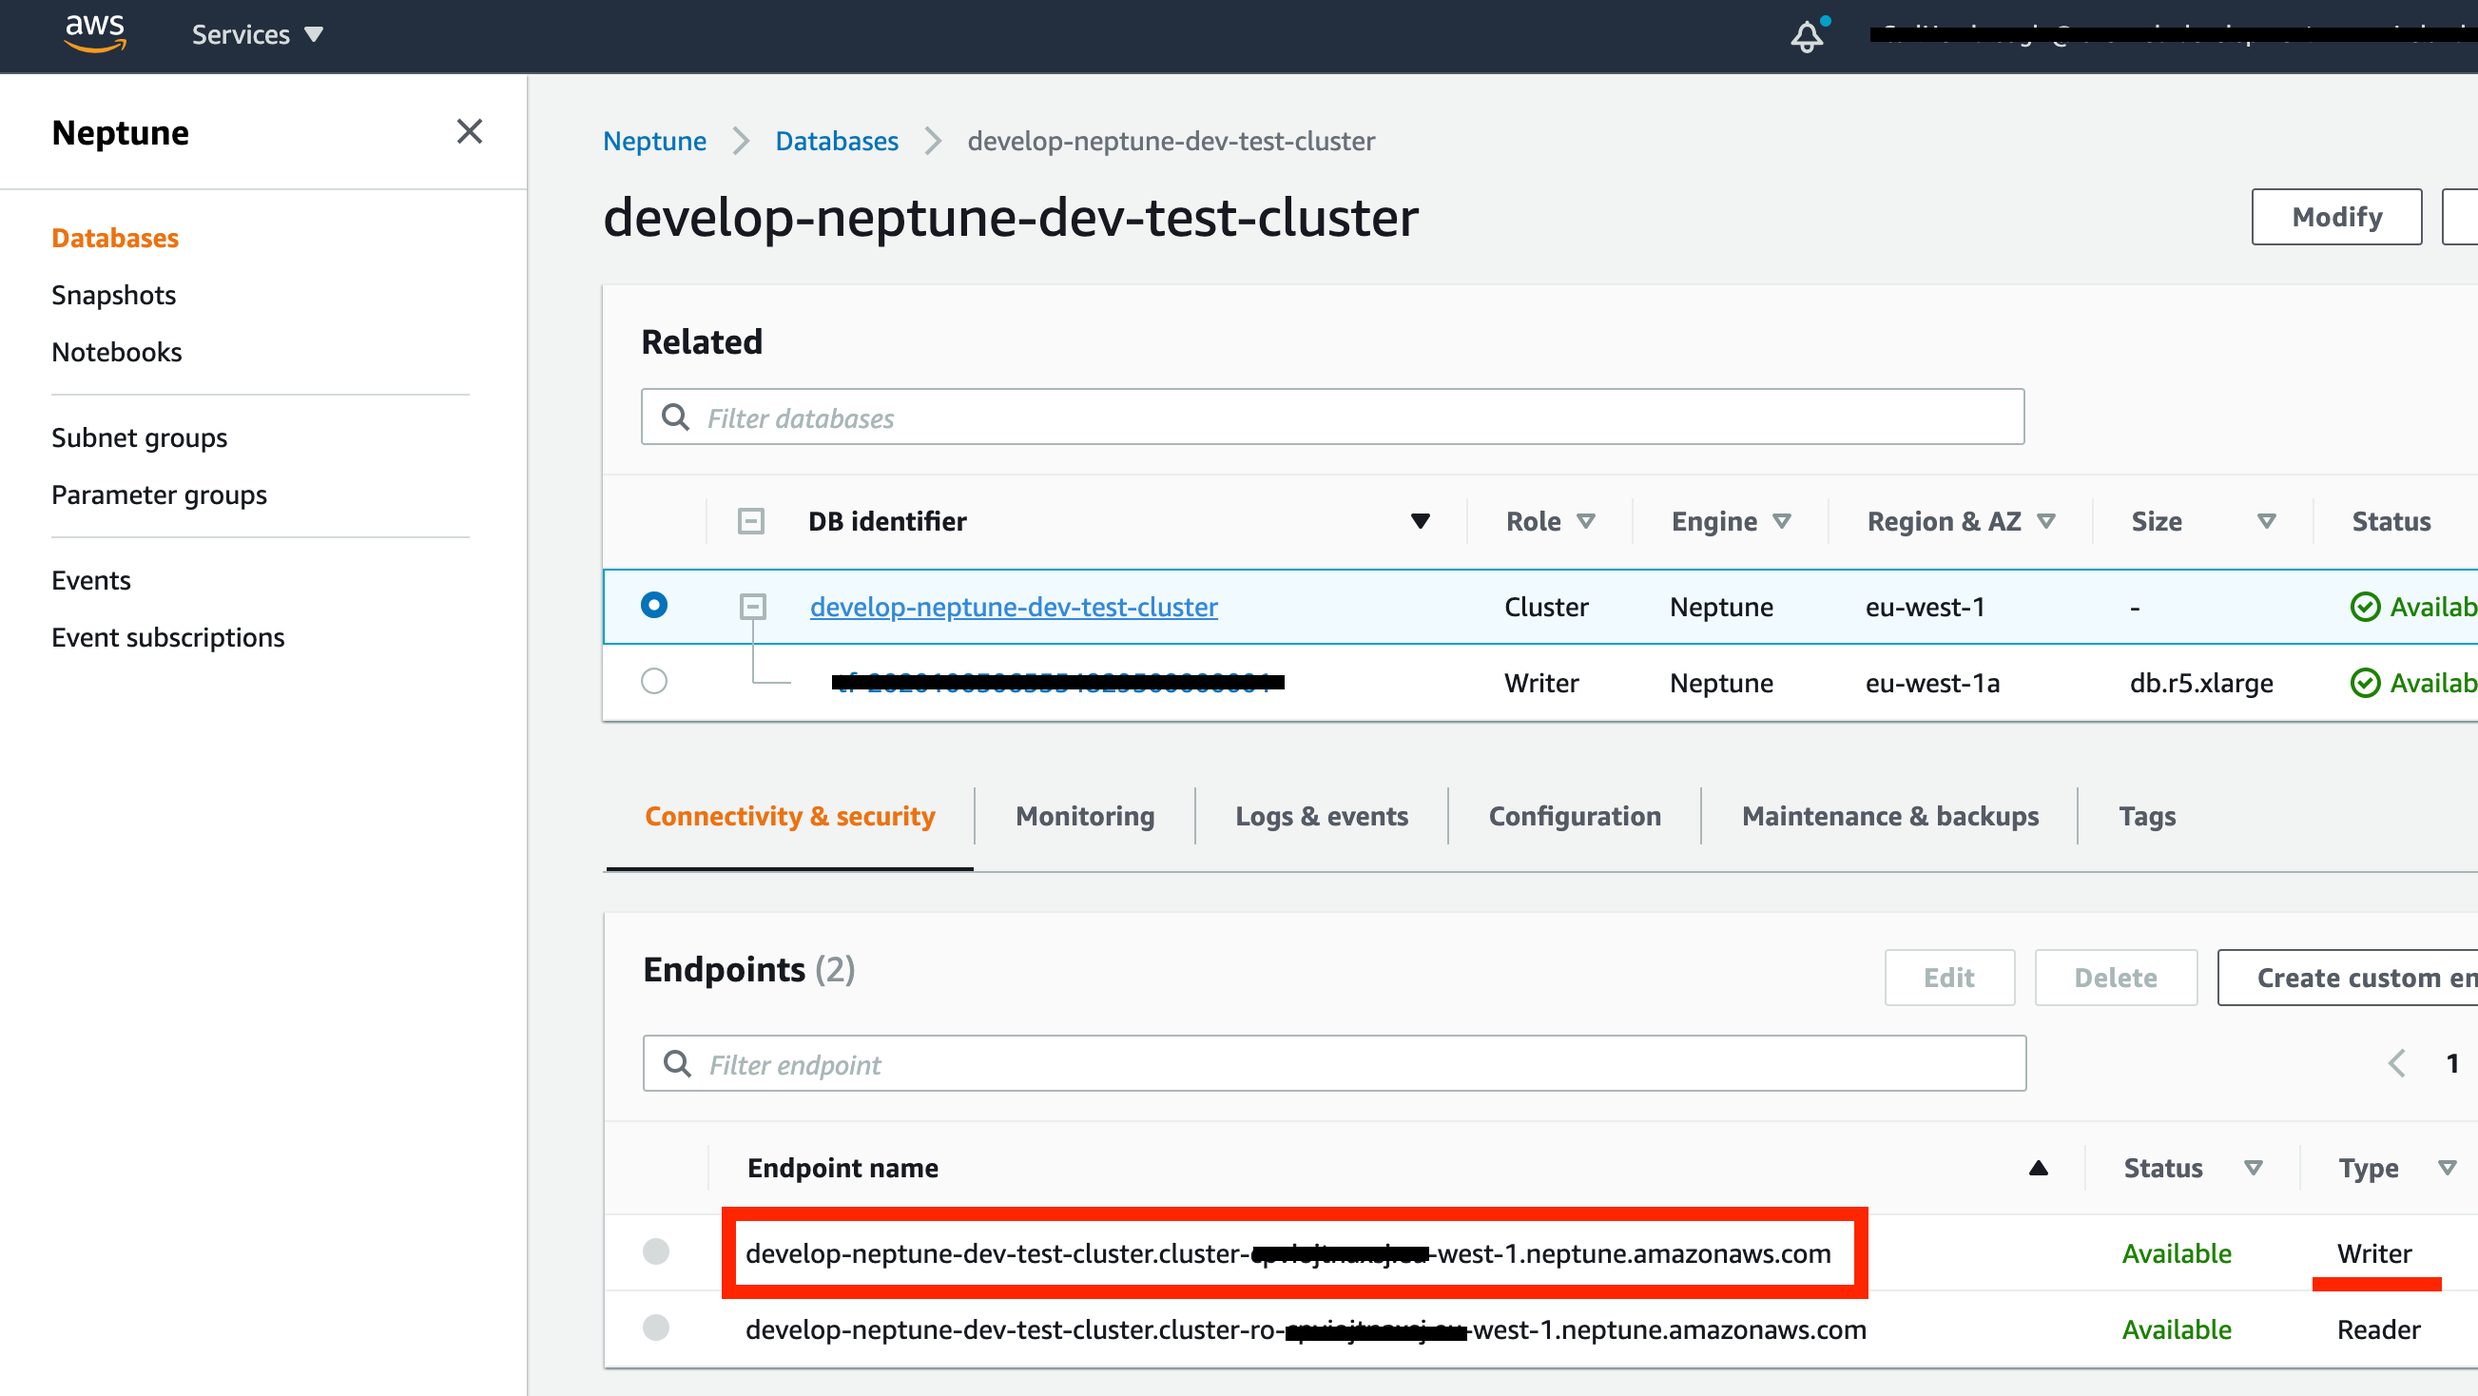
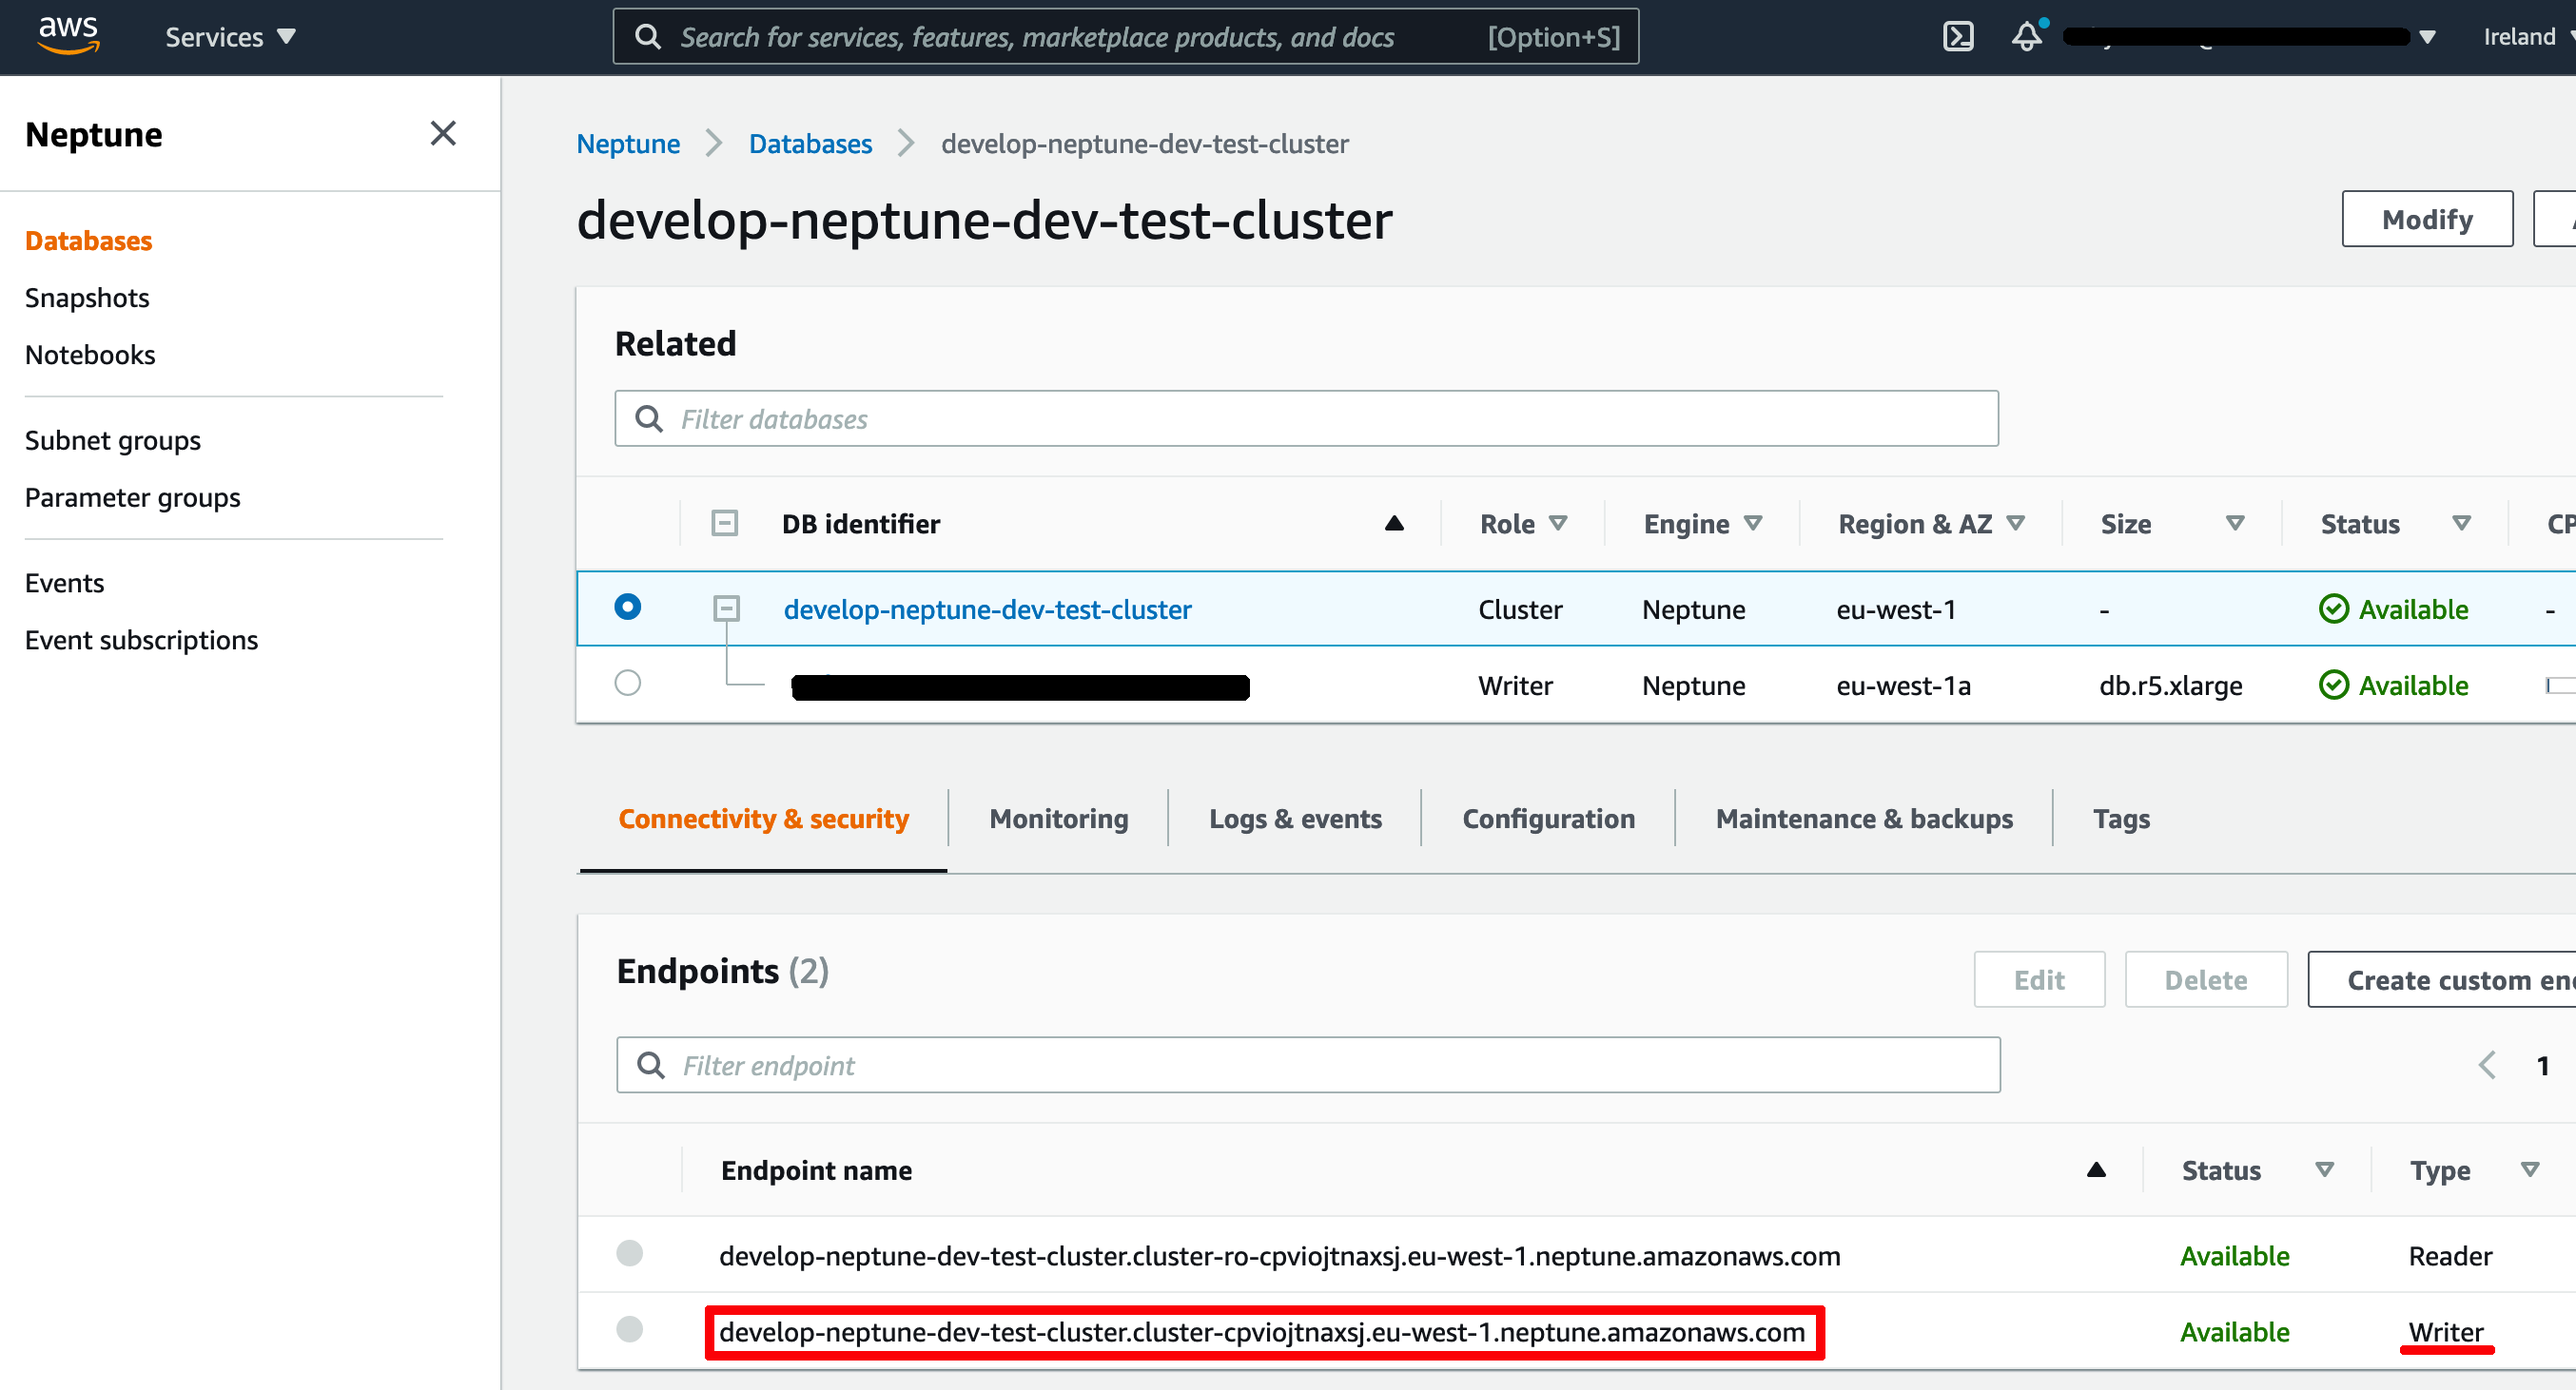
Fix gremlin command & touch up doc. Reduce redaction in image.

diff --git a/guides/NEPTUNE.md b/guides/NEPTUNE.md
@@ -26,35 +26,46 @@ First you need the address of the cluster you want to connect to. You can get th
     ![1](../img/neptune_db_select.png)
 
 1. The cluster address can now be copied from the 'Connectivity & security' section at the bottom
-    
+
     ![1](../img/neptune_cluster_address.png)
 
 1. Run the command to port forward to the Neptune cluster, where `{cluster address}` is replaced with the `develop-neptune-dev-test-cluster` cluster endpoint address.
 
 Using the DP CLI:
- ```
- dp ssh develop publishing 1 -p 8182:{cluster address}:8182
- ```
+
+```text
+dp ssh develop publishing 1 -p 8182:{cluster address}:8182
+```
+
+For example:
+
+```shell
+dp ssh develop publishing 1 -p 8182:develop-neptune-dev-test-cluster.cluster-cpviojtnaxsj.eu-west-1.neptune.amazonaws.com:8182
+```
 
 If not using the DP CLI:
 
 In the terminal, CD into the ansible directory of the dp-setup project:
-```
+
+```shell
 cd dp-setup/ansible
 ```
+
 Run the SSH command with port forwarding:
-```
+
+```shell
 ssh -F ssh.cfg -L 8182:{cluster address}:8182 {user name}@{publishing asg node IP}
 ```
 
 #### Configure a custom hostname to connect to Neptune
 
 Neptune requires a secure connection. The SSL certificate provided by Neptune requires hosts to match it's configured wildcards. This does not include localhost, so a custom hostname has to be used.
- 
-Add a host to the 127.0.0.1 entry in `/etc/hosts`, using the suffix of the Neptune host.
+
+On your MacBook add a host to the 127.0.0.1 entry in `/etc/hosts`, using the suffix of the Neptune host.
 
 For example, a custom host using a prefix of `localhost` and a suffix of the `dev-test` Neptune cluster host:
-```
+
+```text
 127.0.0.1	localhost localhost.cluster-cpviojtnaxsj.eu-west-1.neptune.amazonaws.com
 ```
 
@@ -65,17 +76,21 @@ More information can be found here: https://docs.aws.amazon.com/neptune/latest/u
 Each service using the graph database does do via the [dp-graph](https://github.com/ONSdigital/dp-graph/) library. This library provides an abstraction over the graph database, and handles the configuration for which graph database provider to use. The default values when running locally are set to use Neo4j. 
 
 To use Neptune, ensure you have the following environment variables set:
-```
+
+```shell
 export GRAPH_DRIVER_TYPE=neptune
 export GRAPH_ADDR=wss://{{host}}:8182/gremlin
 ```
+
 where host is the same as the custom host used in the previous section. An example using the example host:
-```
+
+```shell
 export GRAPH_DRIVER_TYPE=neptune
 export GRAPH_ADDR=wss://localhost.cluster-cpviojtnaxsj.eu-west-1.neptune.amazonaws.com:8182/gremlin
 ```
 
 Most likely you will set the environment variables globally in your profile, however if you do want to configure each service individually you will need the environment variables available to the following services:
+
 - dp-dataset-api
 - dp-filter-api
 - dp-code-list-api
@@ -93,17 +108,17 @@ The Gremlin console is a command line application that allows ad-hoc queries to 
 
 For installation instructions, see the [getting started guide](https://tinkerpop.apache.org/docs/3.4.8/tutorials/getting-started/)
 
-Once the console is running, and your port forwarding is set up, you need to run the following command in the Gremlin Console:
+Once the console is running, and your port forwarding is set up, you need to run the following command in the Gremlin Console (**including the colon at the start of the line**):
 
-```
-:remote connect tinkerpop.server conf/remote.yaml
+```text
+:remote connect tinkerpop.server conf/remote-secure.yaml
 ```
 
 This command connects the console to the server defined in the `conf/remote.yaml` configuration file, which is localhost (using the port forwarding)
 
-Once connected you run another command to tell the console to send the commands to the remote server: 
+Once connected you run another command to tell the console to send the commands to the remote server:
 
-```
+```text
 :remote console
 ```
 
@@ -112,18 +127,9 @@ For further details on writing Gremlin queries, refer to the [Gremlin reference]
 ### CMD Data Import
 
 The CMD import process requires specific data to be in place before a dataset can be imported. The list below contains each of the types required, along with a link to the repository where more information about importing the data can be found.
-    
+
 - [recipes](https://github.com/ONSdigital/dp-recipe-api) - stored in your local mongo DB instance, so will need to be loaded if you haven't already
 - [code lists](https://github.com/ONSdigital/dp-code-list-scripts) - these are stored in the graph DB, so most likely they will already be loaded
 - [hierarchies](https://github.com/ONSdigital/dp-hierarchy-builder) - these are stored in the graph DB, so most likely they will already be loaded
 
 For further details on the CMD import process, see the [CMD import guide](GETTING_STARTED.md#cmd-import-steps)
-
-
-
-
-
-
-
-
-
